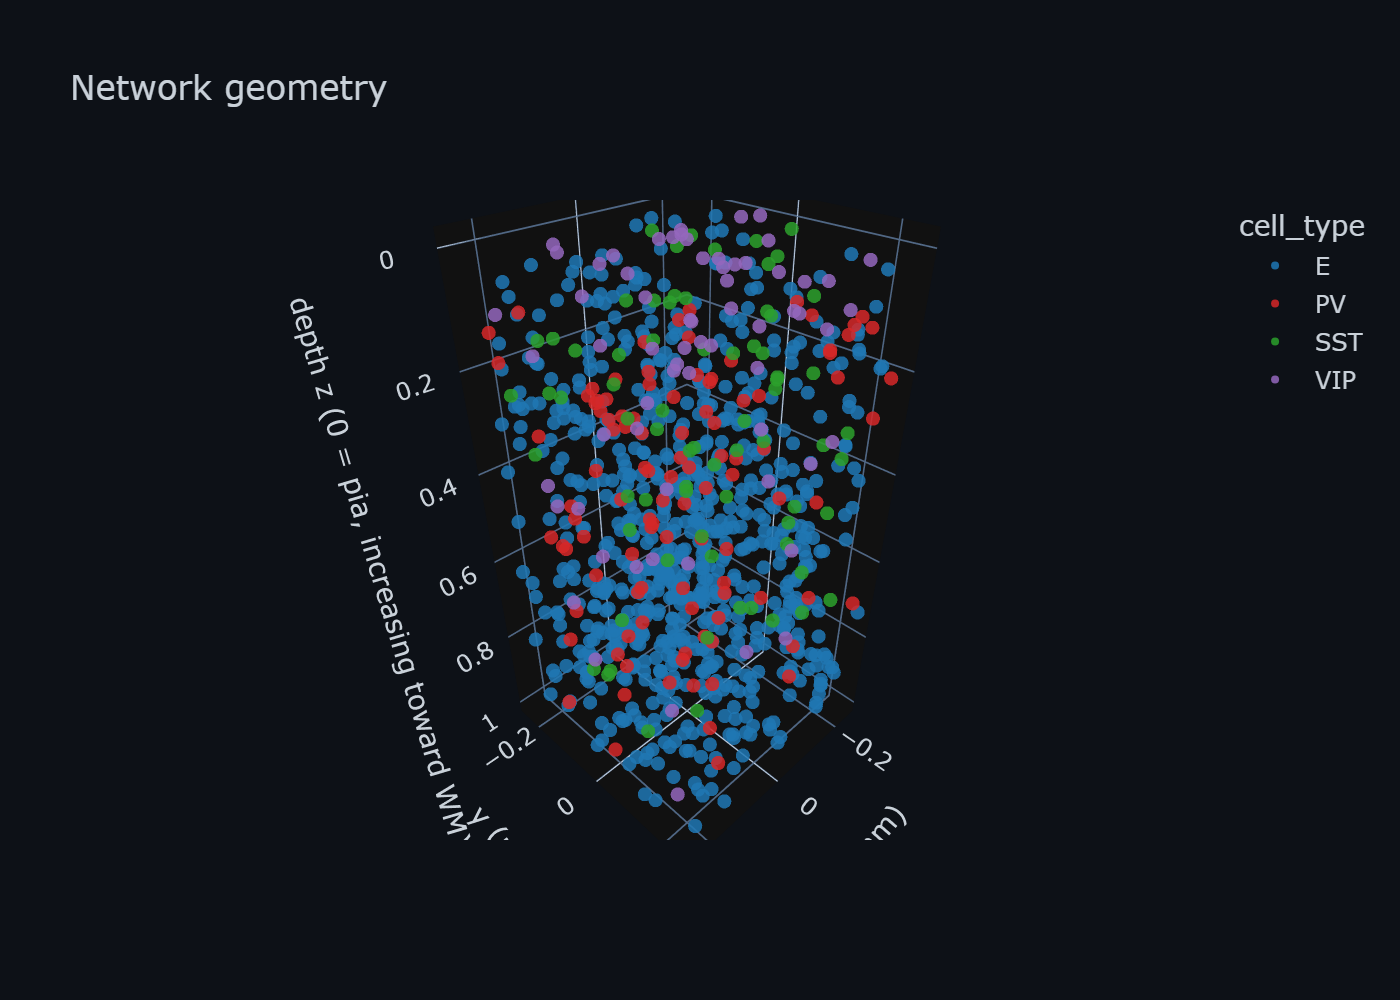
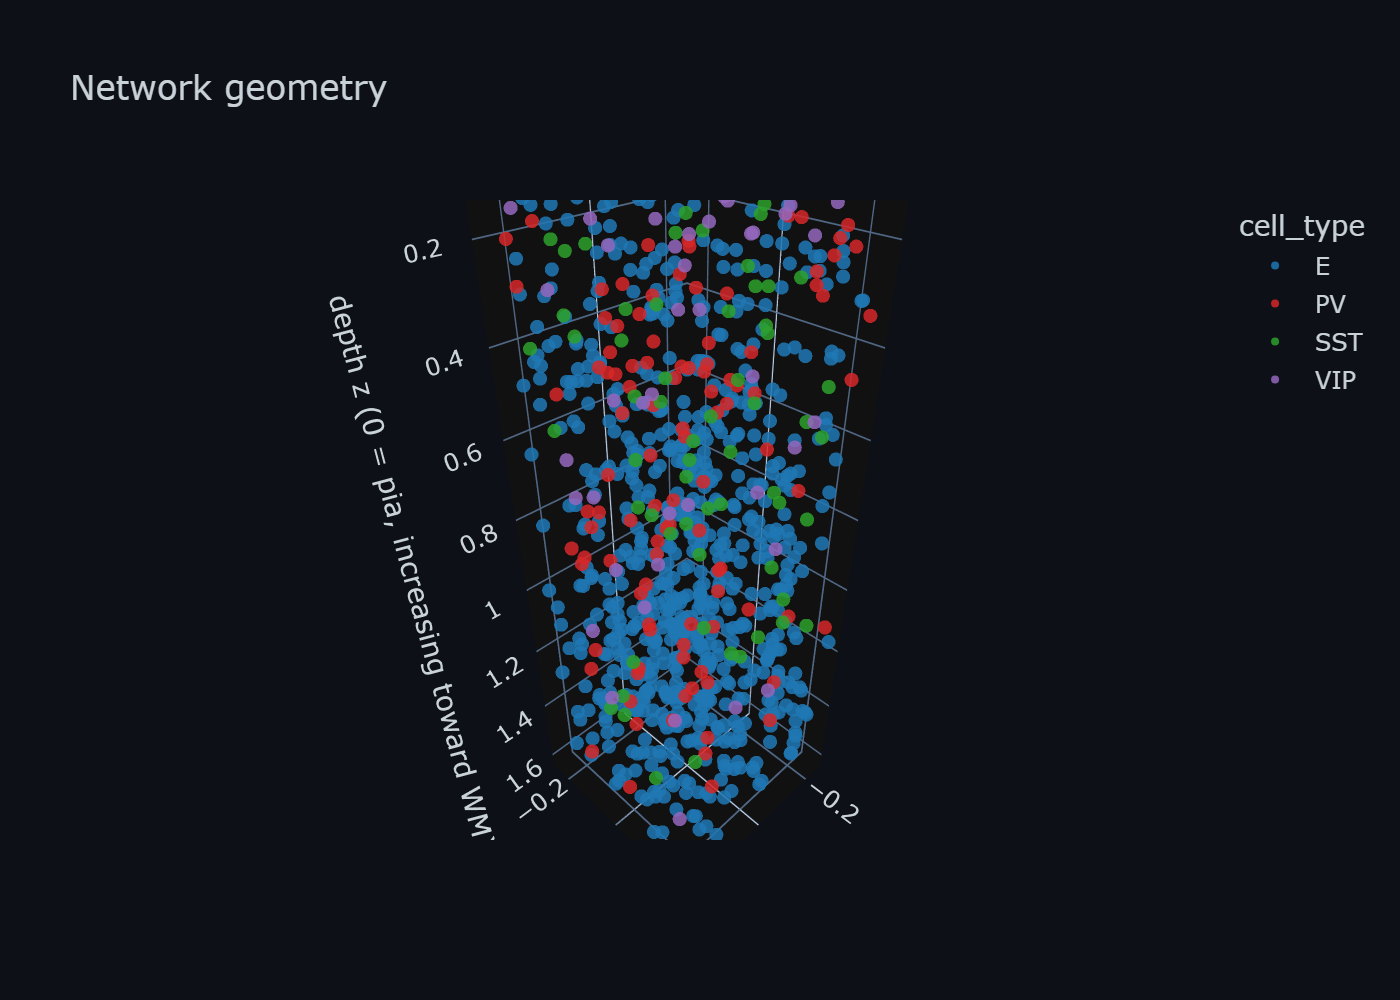
0.5.10 candidate: canonical atlas at 0.5.10, promoted to validated
Broad gate on c34fb5ea: 1 failed, 8453 passed (test_canonical_manifest_provenance:
atlas built by 0.5.9). scripts/generate_readme_atlas.py regenerated it, as at the
0.5.7-0.5.9 candidates. Decoded Plotly panel data equal to the atlas generated at
dev 59521ff3 in all 7 panels; against v0.5.9 (e0160dfc) network_3d z scales by
1.6 (P-066), lfp max rel 4.2e-7, oscillatory max rel 5.1e-5, raster/hdp/h_dynamics
identical. The promotion history (3 entries) is carried and a 0.5.10 promotion
appended by promote_atlas_state.py. README stills re-rasterized; gallery line at
0.5.10. Atlas, pin, gallery and stub tests 62 passed; generate_gallery --check OK.

diff --git a/docs/start/gallery.md b/docs/start/gallery.md
@@ -266,7 +266,7 @@ State `validated` · N=12 · edges=132 · steps=2000 · config `a07c380b8304` ·
 
 ### `atlas` — Canonical V1 Column (1000n)
 
-State `validated` · N=1000 · edges=215785 · steps=2000 · config `91f037cf383e` · jaxfne 0.5.9
+State `validated` · N=1000 · edges=215785 · steps=2000 · config `91f037cf383e` · jaxfne 0.5.10
 
 === "Still"
 
